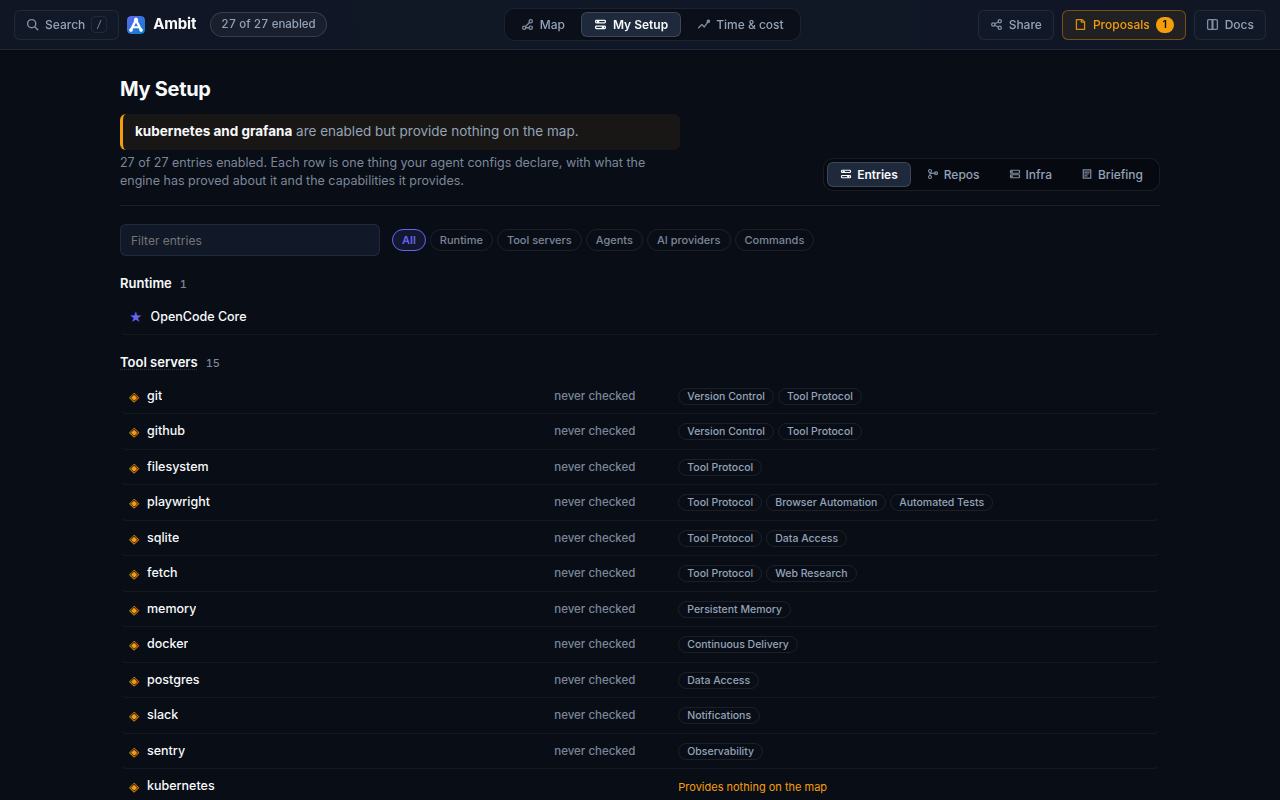
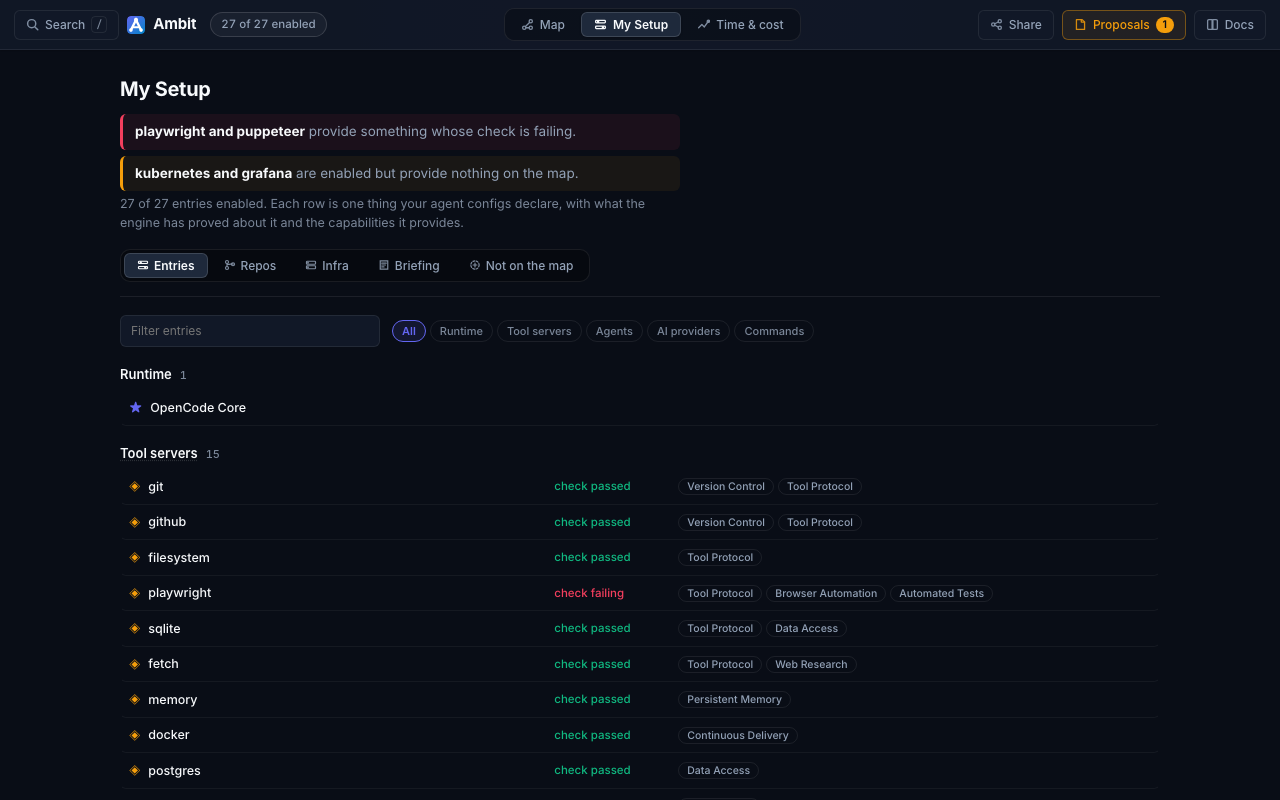
Re-record the README's pictures, with the demo's checks and a real outage
The recorder seeded its fixture and ran no checks, so once the header led
with what is verified, the README's first picture read "0 verified". It now
records the demo's evidence through the engine's runner, the way
generate-demo-data.ts does, from the same DEMO_EVIDENCE.

Its outage beat simulated Local Runtime, which on this fixture stops nothing
that works. It now takes Shell Execution, and fails the recording if the
banner does not say that something working would stop, the way it already
fails on unreadable labels. The caption says what the GIF shows: nine would
stop, apart from those never set up and one already failing.

Recording also caught the range line naming the wrong thing: tool:bash is
"Shell Execution" too, and the line counted the entry (10) under the node's
name while the banner counted the node (9). The weakest point is now chosen
among the nodes the map draws.

diff --git a/scripts/record-hero-gif.ts b/scripts/record-hero-gif.ts
@@ -26,6 +26,9 @@ import { fileURLToPath } from 'node:url';
 import { createServer } from 'node:http';
 import { readFile } from 'node:fs/promises';
 import { extname, normalize } from 'node:path';
+import { deriveLifecycles, verifyCheck } from '../src/engine/assurance.ts';
+import { getDb } from '../src/engine/db.ts';
+import { DEMO_EVIDENCE } from './generate-demo-data.ts';
 
 const ROOT = join(dirname(fileURLToPath(import.meta.url)), '..');
 const OUT_GIF = join(ROOT, 'docs', 'assets', 'capability-graph-demo.gif');
@@ -327,6 +330,19 @@ async function main() {
     throw new Error(`fixture graph looks wrong: reached=${status.reached}`);
   console.log(`  ${status.reached}/${status.total} reached`);
 
+  // The demo's check results, through the engine's own runner, the way
+  // generate-demo-data.ts records them. Without them every reached node is
+  // unchecked, and since the header leads with what is verified, the README's
+  // first picture read "0 verified" over a machine the demo calls healthy.
+  {
+    const db = getDb(dbPath);
+    for (const [id, passes] of Object.entries(DEMO_EVIDENCE)) {
+      verifyCheck(db, id, id, { command: [passes ? 'true' : 'false'] });
+    }
+    deriveLifecycles(db);
+    db.close();
+  }
+
   // A drafted proposal so the approvals panel has something real in it.
   engine(['propose', 'local-embeddings']);
 
@@ -610,11 +626,12 @@ async function main() {
   // 2 — one capability, and what hangs off it. Nodes carry role=button and an
   // aria-label of "<name>, <type>", which is a contract the keyboard path
   // depends on too, so it is a safer handle than the rendered glyph.
-  // Prefer a reached node: an outage simulation on something that was never
-  // reached has no cascade to draw.
+  // Prefer a reached node whose loss stops something that works. Local Runtime
+  // led this list, and once the banner counted only working capabilities its
+  // outage read "nothing that works would stop": a blast radius of zero.
   const picked = await cdp.clickWhere(`(() => {
     const nodes = [...document.querySelectorAll('g[role="button"][aria-label]')];
-    const want = ['Local Runtime', 'Shell Execution', 'Version Control', 'File Editing'];
+    const want = ['Shell Execution', 'Version Control', 'File Editing', 'Local Runtime'];
     for (const w of want) {
       const n = nodes.find(x => x.getAttribute('aria-label').startsWith(w));
       if (n) return n;
@@ -636,6 +653,10 @@ async function main() {
   })()`);
   console.log(`  ${simmed}`);
   await sleep(1200);
+  const said = await cdp.eval(`document.querySelector('.civ-sim-banner span')?.textContent ?? ''`);
+  if (!/\d+ capabilit(y|ies) would stop working/.test(String(said)))
+    throw new Error(`the outage beat stops nothing that works: "${said}"`);
+  console.log(`  · ${said}`);
   await hold(2.4, 'blast radius');
 
   // 4 — back to a clean map

diff --git a/src/client/components/civ/layout.ts b/src/client/components/civ/layout.ts
@@ -641,9 +641,12 @@ export function mapFindings(items: Item[], connections: Connection[]): MapFindin
     }
   }
   let weakest: MapFindings['weakest'];
-  // The runtime is the agent itself: losing it stops everything, which is
-  // true and tells nobody anything. The weakest point is a piece of the setup.
-  for (const item of items) {
+  // A node on the map, since that is what the line names and Simulate lights:
+  // an entry can share a node's name (tool:bash is "Shell Execution" too), and
+  // the line then named the node and counted the entry, one more than the
+  // banner said. The runtime is the agent itself: losing it stops everything,
+  // which is true and tells nobody anything.
+  for (const item of tree) {
     if (item.status !== 'built' || isRuntimeNode(item)) continue;
     // The same count the outage banner states when this one is simulated.
     const stops = outageImpact(items, outageSplit(items, connections, item.id)).stopped.length;

diff --git a/src/client/components/findings.test.tsx b/src/client/components/findings.test.tsx
@@ -117,6 +117,8 @@ test('the map leads with the verified range, and the one loss that would stop th
   // and its count is the one the outage banner states when it is simulated.
   const weakest = found.weakest!;
   expect(weakest.item.type).not.toBe('runtime');
+  // A node the map draws, never an entry that happens to share its name.
+  expect(weakest.item.meta?.era).toBeDefined();
   const said = outageSentence(
     weakest.item.name,
     outageImpact(items, outageSplit(items, connections, weakest.item.id))

diff --git a/README.md b/README.md
@@ -15,9 +15,9 @@ Ambit reads the configs of Claude Code, Cursor, OpenCode, Windsurf, Gemini CLI, 
 
 <br>
 
-<img src="docs/assets/capability-graph-demo.gif" alt="Ambit showing one developer setup as a map: a tool is selected and its dependents listed, switching it off turns eight downstream capabilities red and two amber, a second view colors the tools that interrupt a person most often, and a proposed config change waits for approval" width="920">
+<img src="docs/assets/capability-graph-demo.gif" alt="Ambit showing one developer setup as a map: Shell Execution is selected and its dependents listed, switching it off turns what depends on it red and says nine working capabilities would stop, apart from those never set up and one already failing, a second view colors the tools that interrupt a person most often, and a proposed config change waits for approval" width="920">
 
-<sub>One setup, mapped. Pick a tool and Ambit shows what depends on it; switch it off and it shows the eight things that stop working with it and the two that only lose a provider. Then which tools interrupt you most, and a change waiting on your approval.</sub>
+<sub>One setup, mapped. Pick a capability and Ambit shows what depends on it; switch it off and it counts the nine working things that would stop, apart from the ones never set up and the one already failing. Then which tools interrupt you most, and a change waiting on your approval.</sub>
 
 `brew install zz-plant/tap/ambit && ambit`, or [open the hosted demo](https://zz-plant.github.io/ambit/?demo=1) and install nothing.
 
